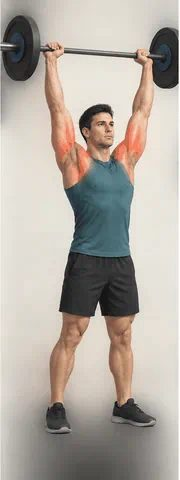
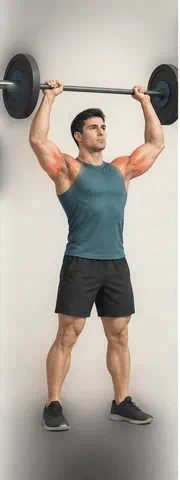
Second pass: Settings edits everything onboarding asks, cleaner loops
- Settings can now change where you train (with the home-gym list), healed
  old injuries, recovery (sleep, stress, work), way of eating and foods you
  don't eat. Training changes rebuild the plan; food changes rebuild
  today's menu. The choice lists move to lib/data/choices.ts, shared with
  onboarding so the two can never drift.
- Knee: leg press, hack squat, reverse lunge, step-up, broad jump, burpee
  and the deep squat hold now carry the knee flag, so a knee that hurts no
  longer gets lunges. Goblet squat, bodyweight squat and wall sit stay
  available so lower days remain trainable (tested).
- Trends hides charts that would be eight flat lines for a new athlete.
- The green slab accent survives wrapping onto a second line.
- Meal page no longer repeats the slot in its eyebrow.
- Exercise loops: torn black/red borders inpainted (OpenCV) on the 12
  affected loops; kettlebell swing keeps only its three clean frames.
  Hack squat and chest-supported row remain visibly damaged at source.

diff --git a/src/lib/data/exercises.ts b/src/lib/data/exercises.ts
@@ -30,9 +30,9 @@ export const EXERCISES: Exercise[] = [
   E({ slug: "leg-press", name: "Leg press", pattern: "squat", pillar: "strength", primary: ["quads", "glutes"], secondary: ["hamstrings"], equipment: ["machine"], level: "new", loadable: true, ratio: 1.8,
     cues: ["Feet mid-platform, shoulder width.", "Lower until the hips just start to tuck.", "Don't lock the knees at the top."],
     faults: ["Lower back rounding off the pad.", "Locking out hard."],
-    swaps: ["back-squat", "goblet-squat", "hack-squat"] }),
+    swaps: ["back-squat", "goblet-squat", "hack-squat"] , painFlags: ["knee"]}),
   E({ slug: "hack-squat", name: "Hack squat", pattern: "squat", pillar: "strength", primary: ["quads"], secondary: ["glutes"], equipment: ["machine"], level: "intermediate", loadable: true, ratio: 1.3,
-    cues: ["Back flat on the pad.", "Drive through mid-foot."], faults: ["Heels rising."], swaps: ["leg-press", "front-squat"] }),
+    cues: ["Back flat on the pad.", "Drive through mid-foot."], faults: ["Heels rising."], swaps: ["leg-press", "front-squat"] , painFlags: ["knee"]}),
   E({ slug: "safety-bar-squat", name: "Safety-bar squat", pattern: "squat", pillar: "strength", primary: ["quads", "glutes"], secondary: ["back", "core"], equipment: ["barbell", "rack"], level: "intermediate", loadable: true, ratio: 0.9,
     cues: ["Handles forward, elbows down.", "Fight the bar pulling you forward."], faults: ["Forward collapse."], swaps: ["back-squat", "front-squat"], painFlags: ["shoulder"] }),
   E({ slug: "wall-sit", name: "Wall sit", pattern: "squat", pillar: "strength", primary: ["quads"], secondary: [], equipment: ["bodyweight"], level: "new", loadable: false, timed: true,
@@ -64,11 +64,11 @@ export const EXERCISES: Exercise[] = [
   E({ slug: "bulgarian-split-squat", name: "Bulgarian split squat", pattern: "lunge", pillar: "strength", primary: ["quads", "glutes"], secondary: ["hamstrings", "hips"], equipment: ["dumbbell", "bench", "bodyweight"], level: "new", unilateral: true, loadable: true, tempo: "3-0-1-0", ratio: 0.25,
     cues: ["Front foot far enough that the knee stays behind the toes.", "Torso slightly forward for glutes, upright for quads."], faults: ["Pushing off the back foot.", "Wobbling: slow down."], swaps: ["walking-lunge", "reverse-lunge", "step-up"], painFlags: ["knee"] }),
   E({ slug: "reverse-lunge", name: "Reverse lunge", pattern: "lunge", pillar: "strength", primary: ["quads", "glutes"], secondary: ["hips"], equipment: ["dumbbell", "bodyweight"], level: "new", unilateral: true, loadable: true, ratio: 0.25,
-    cues: ["Step back, drop the knee straight down.", "Push through the front heel."], faults: ["Front knee collapsing inward."], swaps: ["walking-lunge", "bulgarian-split-squat", "step-up"] }),
+    cues: ["Step back, drop the knee straight down.", "Push through the front heel."], faults: ["Front knee collapsing inward."], swaps: ["walking-lunge", "bulgarian-split-squat", "step-up"] , painFlags: ["knee"]}),
   E({ slug: "walking-lunge", name: "Walking lunge", pattern: "lunge", pillar: "strength", primary: ["quads", "glutes"], secondary: ["core"], equipment: ["dumbbell", "bodyweight"], level: "new", unilateral: true, loadable: true, ratio: 0.25,
     cues: ["Long steps, quiet feet."], faults: ["Short choppy steps."], swaps: ["reverse-lunge", "bulgarian-split-squat"], painFlags: ["knee"] }),
   E({ slug: "step-up", name: "Step-up", pattern: "lunge", pillar: "strength", primary: ["quads", "glutes"], secondary: [], equipment: ["dumbbell", "bench", "bodyweight"], level: "new", unilateral: true, loadable: true, ratio: 0.25,
-    cues: ["Whole foot on the box, drive without pushing off the floor."], faults: ["Bouncing off the back leg."], swaps: ["reverse-lunge", "bulgarian-split-squat"] }),
+    cues: ["Whole foot on the box, drive without pushing off the floor."], faults: ["Bouncing off the back leg."], swaps: ["reverse-lunge", "bulgarian-split-squat"] , painFlags: ["knee"]}),
 
   /* ── Horizontal push ───────────────────────────────────── */
   E({ slug: "bench-press", name: "Bench press", pattern: "push_h", pillar: "strength", primary: ["chest"], secondary: ["triceps", "shoulders"], equipment: ["barbell", "bench", "rack"], level: "intermediate", loadable: true, tempo: "2-1-1-0", ratio: 0.75,
@@ -217,9 +217,9 @@ export const EXERCISES: Exercise[] = [
   E({ slug: "box-jump", name: "Box jump", pattern: "power", pillar: "strength", primary: ["quads", "glutes"], secondary: ["calves"], equipment: ["bodyweight"], level: "intermediate", loadable: false,
     cues: ["Land soft, full foot on the box, stand tall.", "Step down, don't jump down."], faults: ["Landing in a deep squat."], swaps: ["kettlebell-swing", "broad-jump"], painFlags: ["knee", "ankle"] }),
   E({ slug: "broad-jump", name: "Broad jump", pattern: "power", pillar: "strength", primary: ["glutes", "quads"], secondary: [], equipment: ["bodyweight"], level: "new", loadable: false,
-    cues: ["Arm swing, land quiet."], faults: ["Stiff landing."], swaps: ["box-jump"] }),
+    cues: ["Arm swing, land quiet."], faults: ["Stiff landing."], swaps: ["box-jump"] , painFlags: ["knee", "ankle"]}),
   E({ slug: "burpee", name: "Burpee", pattern: "cardio", pillar: "endurance", primary: ["full_body"], secondary: [], equipment: ["bodyweight"], level: "new", loadable: false,
-    cues: ["Steady rhythm beats sprinting the first ten."], faults: ["Sagging in the push-up."], swaps: ["mountain-climber"] }),
+    cues: ["Steady rhythm beats sprinting the first ten."], faults: ["Sagging in the push-up."], swaps: ["mountain-climber"] , painFlags: ["knee", "wrist"]}),
   E({ slug: "mountain-climber", name: "Mountain climber", pattern: "cardio", pillar: "endurance", primary: ["core", "cardio"], secondary: [], equipment: ["bodyweight"], level: "new", loadable: false, timed: true,
     cues: ["Hips level, knees drive under the chest."], faults: ["Hips piking."], swaps: ["burpee"] }),
 
@@ -243,7 +243,7 @@ export const EXERCISES: Exercise[] = [
   E({ slug: "couch-stretch", name: "Couch stretch", pattern: "mobility", pillar: "mobility", primary: ["hips", "quads"], secondary: [], equipment: ["bodyweight"], level: "new", unilateral: true, loadable: false, timed: true,
     cues: ["Back knee in the corner, squeeze that glute, stay tall."], faults: ["Arching the lower back."], swaps: ["pigeon-stretch"], painFlags: ["knee"] }),
   E({ slug: "deep-squat-hold", name: "Deep squat hold", pattern: "mobility", pillar: "mobility", primary: ["hips", "ankles"], secondary: ["spine"], equipment: ["bodyweight"], level: "new", loadable: false, timed: true,
-    cues: ["Hold something if needed; elbows push the knees out.", "Heels down. If they lift, raise them on a plate."], faults: ["Rounding hard."], swaps: ["90-90-hip-switch", "ankle-rock"] }),
+    cues: ["Hold something if needed; elbows push the knees out.", "Heels down. If they lift, raise them on a plate."], faults: ["Rounding hard."], swaps: ["90-90-hip-switch", "ankle-rock"] , painFlags: ["knee"]}),
   E({ slug: "ankle-rock", name: "Ankle rock", pattern: "mobility", pillar: "mobility", primary: ["ankles"], secondary: ["calves"], equipment: ["bodyweight"], level: "new", unilateral: true, loadable: false, timed: true,
     cues: ["Knee over the pinky toe, heel stays down."], faults: ["Heel lifting."], swaps: ["deep-squat-hold"] }),
   E({ slug: "thoracic-rotation", name: "Thoracic rotation", pattern: "mobility", pillar: "mobility", primary: ["spine", "shoulders"], secondary: [], equipment: ["bodyweight"], level: "new", unilateral: true, loadable: false,

diff --git a/src/app/onboarding/page.tsx b/src/app/onboarding/page.tsx
@@ -9,6 +9,7 @@ import { adaptationsFor } from "@/lib/engine/injury";
 import { buildNutritionDay } from "@/lib/nutrition/engine";
 import { lbToKg } from "@/lib/units";
 import { ART, IMG, sessionImage } from "@/lib/data/images";
+import { AREAS, AVOID, DIETS, HOME_KIT, PLACES, SLEEP, STRESS, WORK, DEFAULT_LIFESTYLE, equipmentFor } from "@/lib/data/choices";
 import { Seg, MultiSeg, Photo } from "@/components/ui";
 import { motion, AnimatePresence, Press } from "@/components/motion";
 import { AccountPanel } from "@/components/AccountPanel";
@@ -23,15 +24,6 @@ import type { AvoidFood, Equipment, Goal, Level, Lifestyle, PainArea, Profile, S
 
 const STEPS = ["You", "Goal", "Schedule", "Gear", "Recovery", "Food"] as const;
 const CLAIMS = ["We measure before we prescribe.", "One goal. Everything follows.", "The week you actually have.", "Train with what is in front of you.", "Recovery happens outside the gym.", "Fuel is part of the plan."];
-const PLACES: { v: TrainingPlace; name: string; line: string }[] = [
-  { v: "full_gym", name: "Full gym", line: "Racks, cables, machines. Nothing to list." },
-  { v: "home_gym", name: "Home gym", line: "Tell us what you have." },
-  { v: "no_gym", name: "No gym", line: "Bodyweight, outdoors, anywhere." },
-];
-const FULL_GYM: Equipment[] = ["barbell", "rack", "bench", "dumbbell", "kettlebell", "cable", "machine", "pullup_bar", "band", "rower", "bike", "treadmill", "outdoor"];
-const HOME_KIT: { v: Equipment; label: string }[] = [{ v: "dumbbell", label: "Dumbbells" }, { v: "kettlebell", label: "Kettlebell" }, { v: "barbell", label: "Barbell" }, { v: "rack", label: "Rack" }, { v: "bench", label: "Bench" }, { v: "pullup_bar", label: "Pull-up bar" }, { v: "band", label: "Bands" }, { v: "cable", label: "Cables" }, { v: "bike", label: "Bike" }, { v: "rower", label: "Rower" }, { v: "treadmill", label: "Treadmill" }];
-const AREAS: { v: PainArea; label: string }[] = [{ v: "knee", label: "Knee" }, { v: "back", label: "Lower back" }, { v: "shoulder", label: "Shoulder" }, { v: "hip", label: "Hip" }, { v: "wrist", label: "Wrist" }, { v: "ankle", label: "Ankle" }, { v: "elbow", label: "Elbow" }];
-const AVOID: { v: AvoidFood; label: string }[] = [{ v: "nuts", label: "Nuts" }, { v: "peanuts", label: "Peanuts" }, { v: "shellfish", label: "Shellfish" }, { v: "fish", label: "Fish" }, { v: "eggs", label: "Eggs" }, { v: "dairy", label: "Dairy" }, { v: "soy", label: "Soy" }, { v: "pork", label: "Pork" }, { v: "red_meat", label: "Red meat" }];
 const GOALS: { v: Goal; name: string; line: string; image: string }[] = [
   { v: "strength", name: "Get strong", line: "Heavy compounds, low reps, long rests.", image: sessionImage("lower", 600, 600) },
   { v: "build", name: "Build muscle", line: "Volume, tempo, food to grow.", image: sessionImage("upper", 600, 600) },
@@ -68,7 +60,7 @@ export default function Onboarding() {
   const [homeKit, setHomeKit] = useState<Equipment[]>(["dumbbell", "bench"]);
   const [injured, setInjured] = useState<PainArea[]>([]);
   const [healed, setHealed] = useState<PainArea[]>([]);
-  const [lifestyle, setLifestyle] = useState<Lifestyle>({ sleep: "7_8", stress: "moderate", work: "desk" });
+  const [lifestyle, setLifestyle] = useState<Lifestyle>(DEFAULT_LIFESTYLE);
   const [dietary, setDietary] = useState<Profile["dietary"]>([]);
   const [avoidFoods, setAvoidFoods] = useState<AvoidFood[]>([]);
   const [mealsPerDay, setMealsPerDay] = useState<Profile["mealsPerDay"]>(4);
@@ -102,7 +94,7 @@ export default function Onboarding() {
     setBusy(true);
     // Cinematic build: staged messages while the engine works.
     for (let i = 0; i < 4; i++) { setStage(i); await new Promise((r) => setTimeout(r, 650)); }
-    const equipment: Equipment[] = place === "full_gym" ? FULL_GYM : place === "home_gym" ? [...homeKit, "outdoor"] : ["outdoor"];
+    const equipment = equipmentFor(place, homeKit);
     const profile: Profile = {
       id: uid(), name: name.trim(), sex, age, units, goal, level,
       heightCm: units.weight === "lb" ? height * 2.54 : height, weightKg: units.weight === "lb" ? lbToKg(weight) : weight,
@@ -243,14 +235,14 @@ export default function Onboarding() {
           </>)}
           {step === 4 && (<>
             <h1 className="display display--lg leading-[0.95]" style={{ fontSize: "var(--text-display-lg)" }}>Life <em>outside</em> the gym.</h1>
-            <div className="field"><span className="meta">Sleep on a normal night</span><Seg fill value={lifestyle.sleep} onChange={(sleep) => setLifestyle((l) => ({ ...l, sleep }))} options={[{ v: "under_6", label: "Under 6 h" }, { v: "6_7", label: "6–7 h" }, { v: "7_8", label: "7–8 h" }, { v: "over_8", label: "8 h +" }]} /></div>
-            <div className="field"><span className="meta">Stress these days</span><Seg fill value={lifestyle.stress} onChange={(stress) => setLifestyle((l) => ({ ...l, stress }))} options={[{ v: "low", label: "Low" }, { v: "moderate", label: "Moderate" }, { v: "high", label: "High" }]} /></div>
-            <div className="field"><span className="meta">Your days are mostly</span><Seg fill value={lifestyle.work} onChange={(work) => setLifestyle((l) => ({ ...l, work }))} options={[{ v: "desk", label: "Sitting" }, { v: "on_feet", label: "On my feet" }, { v: "physical", label: "Physical work" }]} /></div>
+            <div className="field"><span className="meta">Sleep on a normal night</span><Seg fill value={lifestyle.sleep} onChange={(sleep) => setLifestyle((l) => ({ ...l, sleep }))} options={SLEEP} /></div>
+            <div className="field"><span className="meta">Stress these days</span><Seg fill value={lifestyle.stress} onChange={(stress) => setLifestyle((l) => ({ ...l, stress }))} options={STRESS} /></div>
+            <div className="field"><span className="meta">Your days are mostly</span><Seg fill value={lifestyle.work} onChange={(work) => setLifestyle((l) => ({ ...l, work }))} options={WORK} /></div>
             <p className="text-sm text-smoke">Muscle is built while you recover. Short sleep, heavy stress or a physical job mean fewer sets per session, and a physical job means more food. Every four weeks the next block is rewritten from how the last one actually went.</p>
           </>)}
           {step === 5 && (<>
             <h1 className="display display--lg leading-[0.95]" style={{ fontSize: "var(--text-display-lg)" }}>How do you <em>eat</em>?</h1>
-            <div className="field"><span className="meta">Way of eating</span><MultiSeg value={dietary} onChange={setDietary} options={[{ v: "vegetarian", label: "Vegetarian" }, { v: "vegan", label: "Vegan" }, { v: "pescatarian", label: "Pescatarian" }, { v: "keto", label: "Keto" }, { v: "halal", label: "Halal" }, { v: "gluten_free", label: "Gluten-free" }, { v: "lactose_free", label: "Lactose-free" }]} /></div>
+            <div className="field"><span className="meta">Way of eating</span><MultiSeg value={dietary} onChange={setDietary} options={DIETS} /></div>
             <div className="field"><span className="meta">Foods you don’t eat</span><MultiSeg value={avoidFoods} onChange={setAvoidFoods} options={AVOID} /></div>
             <div className="field"><span className="meta">Meals per day</span><Seg value={mealsPerDay} onChange={setMealsPerDay} options={[3, 4, 5].map((m) => ({ v: m as Profile["mealsPerDay"], label: String(m) }))} /></div>
             <p className="text-sm text-smoke">Targets come from your body, goal and the kind of day it is. 30,000+ recipes with cook mode; meals never repeat within three days.</p>

diff --git a/src/app/(app)/settings/page.tsx b/src/app/(app)/settings/page.tsx
@@ -5,7 +5,7 @@ import type { User } from "@supabase/supabase-js";
 import Link from "next/link";
 import { useRouter } from "next/navigation";
 import { useLiveQuery } from "dexie-react-hooks";
-import { db, getProfile, getStats, resetAll } from "@/lib/db";
+import { addDays, db, getProfile, getStats, resetAll, todayISO } from "@/lib/db";
 import { goalLabel } from "@/lib/engine/plan";
 import { PAIN_LABEL } from "@/lib/engine/readiness";
 import { rebuildRemaining } from "@/lib/engine/rebuild";
@@ -22,6 +22,8 @@ import { Screen, Hero, Section, Seg, MultiSeg, Toggle, Toast, Photo, ScreenSkele
 import { Page, Stagger, Item, Press } from "@/components/motion";
 import { ensureNotificationPermission } from "@/lib/notify";
 import { InjuryPanel } from "@/components/InjuryPanel";
+import { AREAS, AVOID, DIETS, DEFAULT_LIFESTYLE, HOME_KIT, PLACES, SLEEP, STRESS, WORK, equipmentFor } from "@/lib/data/choices";
+import { buildNutritionDay } from "@/lib/nutrition/engine";
 import type { Goal, PainArea, Profile } from "@/lib/types";
 
 const GOALS: { v: Goal; name: string; image: string }[] = [
@@ -57,9 +59,25 @@ export default function SettingsPage() {
   if (!profile || !stats) return <ScreenSkeleton />;
   const lvl = levelFromXp(stats.xp);
   const imperial = profile.units.weight === "lb";
+  // Profiles made before these existed: infer the place from the equipment.
+  const place = profile.trainingPlace ?? (profile.equipment.includes("machine") ? "full_gym" : profile.equipment.some((e) => e !== "outdoor" && e !== "bodyweight") ? "home_gym" : "no_gym");
+  const homeKit = profile.equipment.filter((e) => e !== "outdoor");
+  const life = profile.lifestyle ?? DEFAULT_LIFESTYLE;
   const update = (patch: Partial<Profile>) => db.profile.update(profile.id, { ...patch, dirty: 1, updatedAt: new Date().toISOString() });
 
   /** Anything that changes the prescription rebuilds the remaining weeks. Done sessions stay. */
+  /** A new diet or avoided food applies from today's menu on, not tomorrow's. */
+  async function food(patch: Partial<Profile>) {
+    await update(patch);
+    const p = { ...profile!, ...patch };
+    const today = todayISO();
+    const session = await db.sessions.where("date").equals(today).first();
+    const recent = (await db.nutrition.where("date").between(addDays(today, -3), addDays(today, -1), true, true).toArray()).flatMap((d) => d.meals.map((m) => m.mealId));
+    const yesterday = await db.nutrition.get(addDays(today, -1));
+    await db.nutrition.put({ ...buildNutritionDay(p, today, session ?? null, yesterday ?? undefined, recent), dirty: 1 });
+    say("Today's menu rebuilt.");
+  }
+
   async function rebuild(patch: Partial<Profile>, why: string) {
     await update(patch);
     await rebuildRemaining(patch);
@@ -110,7 +128,22 @@ export default function SettingsPage() {
                     <div className="field"><span className="meta">Sessions / week</span><Seg fill value={profile.daysPerWeek} onChange={(d) => rebuild({ daysPerWeek: d }, `${d} days a week`)} options={[2, 3, 4, 5, 6].map((d) => ({ v: d as Profile["daysPerWeek"], label: String(d) }))} /></div>
                     <div className="field"><span className="meta">Minutes</span><Seg fill value={profile.sessionMinutes} onChange={(m) => rebuild({ sessionMinutes: m }, `${m}-minute sessions`)} options={[25, 40, 60, 75].map((m) => ({ v: m as Profile["sessionMinutes"], label: String(m) }))} /></div>
                   </div>
+                  <div className="field">
+                    <span className="meta">Where you train</span>
+                    <Seg fill value={place} onChange={(v) => rebuild({ trainingPlace: v, equipment: equipmentFor(v, homeKit) }, PLACES.find((x) => x.v === v)!.name.toLowerCase())} options={PLACES.map((x) => ({ v: x.v, label: x.name }))} />
+                  </div>
+                  {place === "home_gym" && <div className="field"><span className="meta">In your home gym</span><MultiSeg value={homeKit} onChange={(kit) => rebuild({ equipment: equipmentFor("home_gym", kit) }, "home gym updated")} options={HOME_KIT} /></div>}
+                  <div className="field"><span className="meta">Old injuries · healed</span><MultiSeg value={profile.injuryHistory ?? []} onChange={(injuryHistory) => rebuild({ injuryHistory }, "old injuries noted")} options={AREAS} /><span className="text-xs text-smoke">Not excluded — the gentler version of each movement comes first.</span></div>
                   <div className="field"><span className="meta">Pain flags · clear when healed</span><MultiSeg value={profile.pain} onChange={(pain) => update({ pain })} options={(Object.keys(PAIN_LABEL) as PainArea[]).map((k) => ({ v: k, label: PAIN_LABEL[k] }))} /></div>
+                </div>
+              </Section>
+            </Item>
+            <Item>
+              <Section title="Recovery" aside={<span className="text-xs text-smoke">sets volume and food</span>}>
+                <div className="card p-4 grid gap-4">
+                  <div className="field"><span className="meta">Sleep on a normal night</span><Seg fill value={life.sleep} onChange={(sleep) => rebuild({ lifestyle: { ...life, sleep } }, "recovery updated")} options={SLEEP} /></div>
+                  <div className="field"><span className="meta">Stress these days</span><Seg fill value={life.stress} onChange={(stress) => rebuild({ lifestyle: { ...life, stress } }, "recovery updated")} options={STRESS} /></div>
+                  <div className="field"><span className="meta">Your days are mostly</span><Seg fill value={life.work} onChange={(work) => rebuild({ lifestyle: { ...life, work } }, "recovery updated")} options={WORK} /></div>
                 </div>
               </Section>
             </Item>
@@ -120,6 +153,11 @@ export default function SettingsPage() {
             <Item>
               <Section title="Preferences">
                 <div className="card divide-y divide-line">
+                  <div className="p-4 grid gap-3">
+                    <div><p className="text-sm font-medium">Food</p><p className="text-xs text-smoke">Changes rebuild today’s menu.</p></div>
+                    <div className="field"><span className="meta">Way of eating</span><MultiSeg value={profile.dietary} onChange={(dietary) => food({ dietary })} options={DIETS} /></div>
+                    <div className="field"><span className="meta">Foods you don’t eat</span><MultiSeg value={profile.avoidFoods ?? []} onChange={(avoidFoods) => food({ avoidFoods })} options={AVOID} /></div>
+                  </div>
                   <div className="p-4 grid gap-3">
                     <div><p className="text-sm font-medium">Units</p><p className="text-xs text-smoke">Body weight and distance are set separately — plenty of places weigh in pounds and run in kilometres.</p></div>
                     <div className="grid gap-4 sm:grid-cols-2">

diff --git a/src/lib/data/choices.ts b/src/lib/data/choices.ts
@@ -1,0 +1,27 @@
+import type { AvoidFood, Equipment, Lifestyle, PainArea, Profile, TrainingPlace } from "../types";
+
+/* The choices an athlete makes about their training and food, shared by
+   onboarding and Settings so the two can never offer different lists. */
+
+export const PLACES: { v: TrainingPlace; name: string; line: string }[] = [
+  { v: "full_gym", name: "Full gym", line: "Racks, cables, machines. Nothing to list." },
+  { v: "home_gym", name: "Home gym", line: "Tell us what you have." },
+  { v: "no_gym", name: "No gym", line: "Bodyweight, outdoors, anywhere." },
+];
+export const FULL_GYM: Equipment[] = ["barbell", "rack", "bench", "dumbbell", "kettlebell", "cable", "machine", "pullup_bar", "band", "rower", "bike", "treadmill", "outdoor"];
+export const HOME_KIT: { v: Equipment; label: string }[] = [{ v: "dumbbell", label: "Dumbbells" }, { v: "kettlebell", label: "Kettlebell" }, { v: "barbell", label: "Barbell" }, { v: "rack", label: "Rack" }, { v: "bench", label: "Bench" }, { v: "pullup_bar", label: "Pull-up bar" }, { v: "band", label: "Bands" }, { v: "cable", label: "Cables" }, { v: "bike", label: "Bike" }, { v: "rower", label: "Rower" }, { v: "treadmill", label: "Treadmill" }];
+export const AREAS: { v: PainArea; label: string }[] = [{ v: "knee", label: "Knee" }, { v: "back", label: "Lower back" }, { v: "shoulder", label: "Shoulder" }, { v: "hip", label: "Hip" }, { v: "wrist", label: "Wrist" }, { v: "ankle", label: "Ankle" }, { v: "elbow", label: "Elbow" }];
+export const AVOID: { v: AvoidFood; label: string }[] = [{ v: "nuts", label: "Nuts" }, { v: "peanuts", label: "Peanuts" }, { v: "shellfish", label: "Shellfish" }, { v: "fish", label: "Fish" }, { v: "eggs", label: "Eggs" }, { v: "dairy", label: "Dairy" }, { v: "soy", label: "Soy" }, { v: "pork", label: "Pork" }, { v: "red_meat", label: "Red meat" }];
+export const DIETS: { v: Profile["dietary"][number]; label: string }[] = [{ v: "vegetarian", label: "Vegetarian" }, { v: "vegan", label: "Vegan" }, { v: "pescatarian", label: "Pescatarian" }, { v: "keto", label: "Keto" }, { v: "halal", label: "Halal" }, { v: "gluten_free", label: "Gluten-free" }, { v: "lactose_free", label: "Lactose-free" }];
+
+export const SLEEP: { v: Lifestyle["sleep"]; label: string }[] = [{ v: "under_6", label: "< 6 h" }, { v: "6_7", label: "6–7 h" }, { v: "7_8", label: "7–8 h" }, { v: "over_8", label: "8 h +" }];
+export const STRESS: { v: Lifestyle["stress"]; label: string }[] = [{ v: "low", label: "Low" }, { v: "moderate", label: "Moderate" }, { v: "high", label: "High" }];
+export const WORK: { v: Lifestyle["work"]; label: string }[] = [{ v: "desk", label: "Sitting" }, { v: "on_feet", label: "On my feet" }, { v: "physical", label: "Physical work" }];
+export const DEFAULT_LIFESTYLE: Lifestyle = { sleep: "7_8", stress: "moderate", work: "desk" };
+
+/** Equipment for a place. A home gym keeps its own list; outdoors is always there. */
+export function equipmentFor(place: TrainingPlace, homeKit: Equipment[]): Equipment[] {
+  if (place === "full_gym") return FULL_GYM;
+  if (place === "home_gym") return [...new Set<Equipment>([...homeKit.filter((e) => e !== "outdoor"), "outdoor"])];
+  return ["outdoor"];
+}

diff --git a/src/app/(app)/trends/page.tsx b/src/app/(app)/trends/page.tsx
@@ -36,6 +36,8 @@ export default function TrendsPage() {
   const tonnage = useMemo(() => weekly(logs ?? [], (l) => l.startedAt, (l) => l.volumeKg ?? 0, weeks), [logs, weeks]);
   const distance = useMemo(() => weekly(activities ?? [], (a) => a.startedAt, (a) => a.distanceM, weeks), [activities, weeks]);
   const minutes = useMemo(() => weekly(logs ?? [], (l) => l.startedAt, (l) => Math.round((l.durationSec ?? 0) / 60), weeks), [logs, weeks]);
+  const hasTonnage = tonnage.some((w) => w.value > 0);
+  const hasMinutes = minutes.some((w) => w.value > 0);
   const cons = useMemo(() => consistency(logs ?? [], activities ?? [], weeks), [logs, activities, weeks]);
   const read = useMemo(() => profile ? readGoal({
     goal: profile.goal, weights: weights ?? [], lifts, tonnage, distance, consistency: cons, readiness: readiness ?? [],
@@ -108,20 +110,22 @@ export default function TrendsPage() {
               </Section>
             </Item>
 
-            <Item>
+            {/* Empty charts are eight flat lines: until there is something to
+                draw, "Where you stand" above already says why. */}
+            {hasTonnage && <Item>
               <Section title="Weekly tonnage" aside={<span className="flex items-center gap-1.5 text-xs text-smoke"><Arrow v={tonnageSlope} />{tonnageSlope > 0 ? "climbing" : tonnageSlope < 0 ? "falling" : "flat"}</span>}>
                 <div className="card p-4">
                   <Bars data={tonnage} format={(v) => `${Math.round(v / 1000)} t`} />
                 </div>
               </Section>
-            </Item>
+            </Item>}
           </div>
 
           <div className="min-w-0">
             <Item>
               <Section title="Showing up">
                 <div className="card p-4 grid gap-3">
-                  <Bars data={cons.sessions} format={(v) => `${Math.round(v)}`} height={90} />
+                  {cons.weeksTrained > 0 && <Bars data={cons.sessions} format={(v) => `${Math.round(v)}`} height={90} />}
                   <p className="text-sm tnum">
                     <strong>{cons.weeksTrained}</strong> of {cons.weeksTotal} weeks · longest run <strong>{cons.longestRun}</strong>.
                   </p>
@@ -130,11 +134,11 @@ export default function TrendsPage() {
               </Section>
             </Item>
 
-            <Item>
+            {hasMinutes && <Item>
               <Section title="Minutes trained">
                 <div className="card p-4"><Bars data={minutes} format={(v) => `${Math.round(v)} min`} height={90} /></div>
               </Section>
-            </Item>
+            </Item>}
 
             {totalKm > 0 && (
               <Item>

diff --git a/src/lib/engine/plan.test.ts b/src/lib/engine/plan.test.ts
@@ -107,3 +107,16 @@ describe("exercise choice", () => {
         for (const ex of s.exercises.filter((e) => e.block === "main")) expect(getExercise(ex.slug)?.isolation).not.toBe(true);
   });
 });
+
+describe("a knee that hurts", () => {
+  it("keeps lower days trainable with knee-friendly squats, and nothing that loads the knee harder", () => {
+    const { sessions } = generatePlan(make({ pain: ["knee"], equipment: ["barbell", "rack", "bench", "dumbbell", "kettlebell", "machine", "cable"] }), "2026-01-05");
+    const lower = sessions.filter((s) => s.kind === "lower");
+    for (const s of lower) {
+      expect(s.exercises.filter((e) => e.block !== "prep").length).toBeGreaterThan(1);
+      for (const e of s.exercises) expect(getExercise(e.slug)?.painFlags ?? []).not.toContain("knee");
+    }
+    const slugs = new Set(sessions.flatMap((s) => s.exercises.map((e) => e.slug)));
+    for (const banned of ["reverse-lunge", "step-up", "leg-press", "hack-squat"]) expect(slugs.has(banned)).toBe(false);
+  });
+});

diff --git a/src/app/(app)/food/meal/page.tsx b/src/app/(app)/food/meal/page.tsx
@@ -62,7 +62,7 @@ function Recipe() {
   return (
     <Page>
       <Screen>
-        <Hero image={meal.image} color height="h-[400px]" back="/food" eyebrow={`${meal.cuisine ?? "Recipe"} · ${meal.minutes} min · ${meal.slot.join(" / ")}`} title={<>{meal.name}</>}>
+        <Hero image={meal.image} color height="h-[400px]" back="/food" eyebrow={[meal.cuisine ?? "Recipe", `${meal.minutes} min`, ...meal.slot.filter((sl) => sl.toLowerCase() !== (meal.cuisine ?? "").toLowerCase())].join(" · ")} title={<>{meal.name}</>}>
           <div className="flex flex-wrap gap-1.5 mt-3">
             <span className="chip chip--volt tnum">{Math.round(meal.kcal * scale)} kcal</span>
             <span className="chip chip--live backdrop-blur-md tnum">Protein {Math.round(meal.protein * scale)} g</span>

diff --git a/src/app/globals.css b/src/app/globals.css
@@ -144,7 +144,9 @@
 /* Marker slab: the accent word sits on a hand-drawn-looking block. The slab is
    a pseudo-element so it can skew while the serif italic above it stays upright
    — skewing an italic twice reads as a rendering fault, not a gesture. */
-.display em.slab { position: relative; isolation: isolate; color: var(--ink); padding: 0 .16em; }
+/* inline-block: as a plain inline box, a slab that wraps onto a second line
+   collapsed its highlight to a sliver at the line break. */
+.display em.slab { position: relative; isolation: isolate; color: var(--ink); padding: 0 .16em; display: inline-block; }
 .display em.slab::before {
   content: ''; position: absolute; z-index: -1;
   inset: .12em -.04em .1em; border-radius: 3px;
